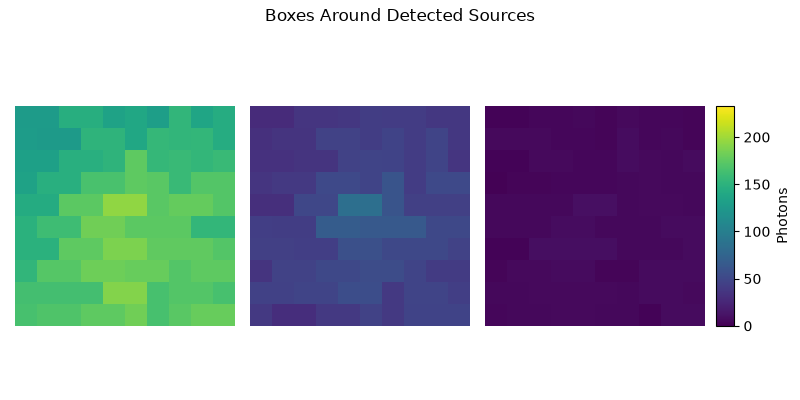
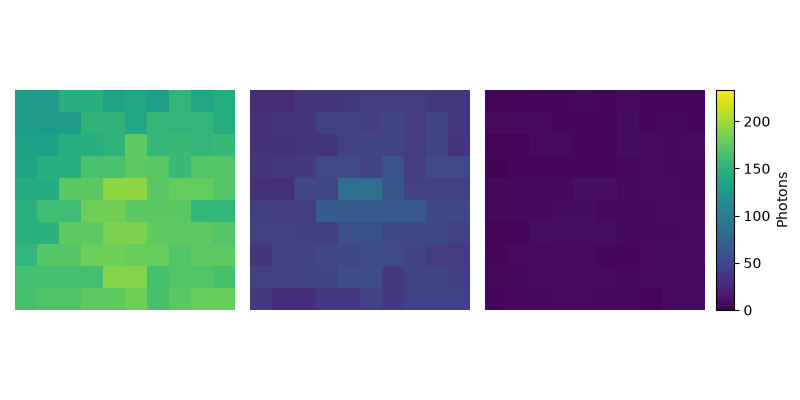
Working on plots for reports.

diff --git a/code/report/plots.py b/code/report/plots.py
@@ -136,7 +136,7 @@ def plot_419(patch_directory="./../source_extractors/real_data/real_patches/patc
     for r in regions:
 
         fig, axs = plt.subplots(1, 3,  gridspec_kw={"width_ratios":[1, 1, 1]})
-        fig.suptitle("Boxes Around Detected Sources")
+        # fig.suptitle("Boxes Around Detected Sources")
 
         images = []
 
